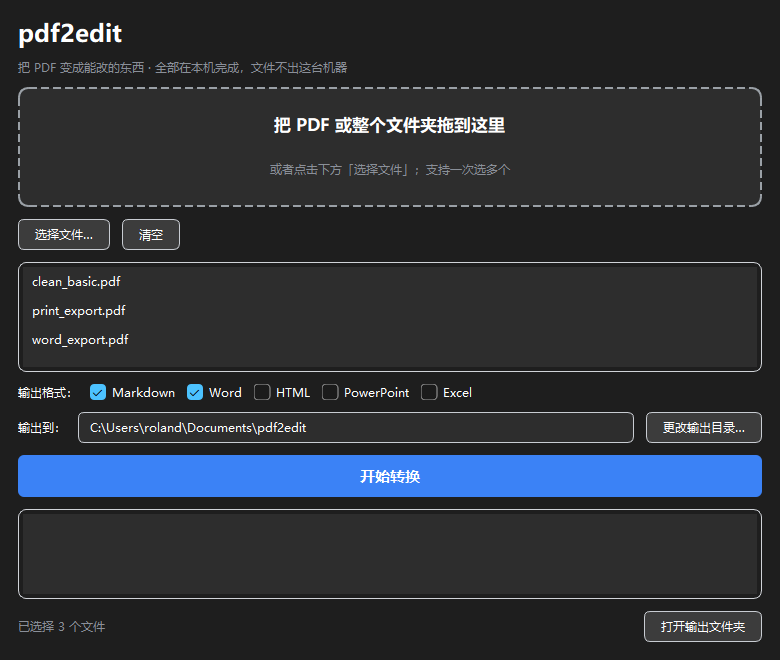
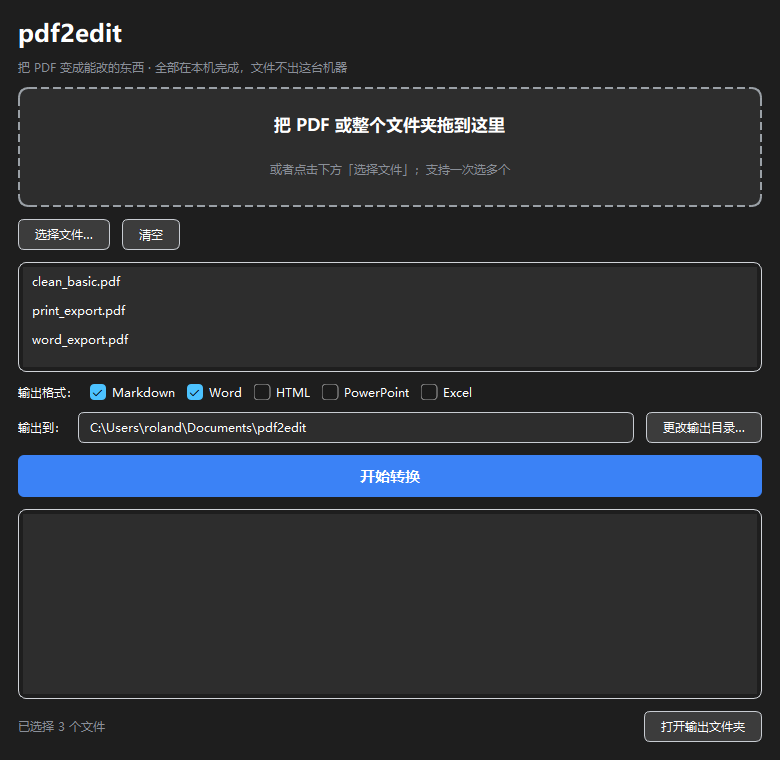
polish: 批量界面留足结果区高度；截图脚本；构建脚本显式 exit 0

diff --git a/src/pdf2edit/desktop.py b/src/pdf2edit/desktop.py
@@ -1,4 +1,4 @@
-"""Windows 桌面窗口（PySide6）。
+"""Windows 桌面窗口（PySide6）。
 
 - 拖入 PDF，选格式，点按钮，结果直接出现在输出目录
 - 转换在后台线程跑，界面不会卡死
@@ -105,7 +105,7 @@ class MainWindow(QMainWindow):
     def __init__(self):
         super().__init__()
         self.setWindowTitle("pdf2edit — 本地 PDF 转换")
-        self.resize(780, 660)
+        self.resize(780, 760)
 
         self._files: list[Path] = []
         self._worker: ConvertWorker | None = None
@@ -179,6 +179,7 @@ class MainWindow(QMainWindow):
         layout.addWidget(self.progress)
 
         self.results = QListWidget()
+        self.results.setMinimumHeight(150)
         layout.addWidget(self.results, 1)
 
         bottom = QHBoxLayout()
@@ -338,3 +339,4 @@ def run() -> None:
     win = MainWindow()
     win.show()
     sys.exit(app.exec())
+
